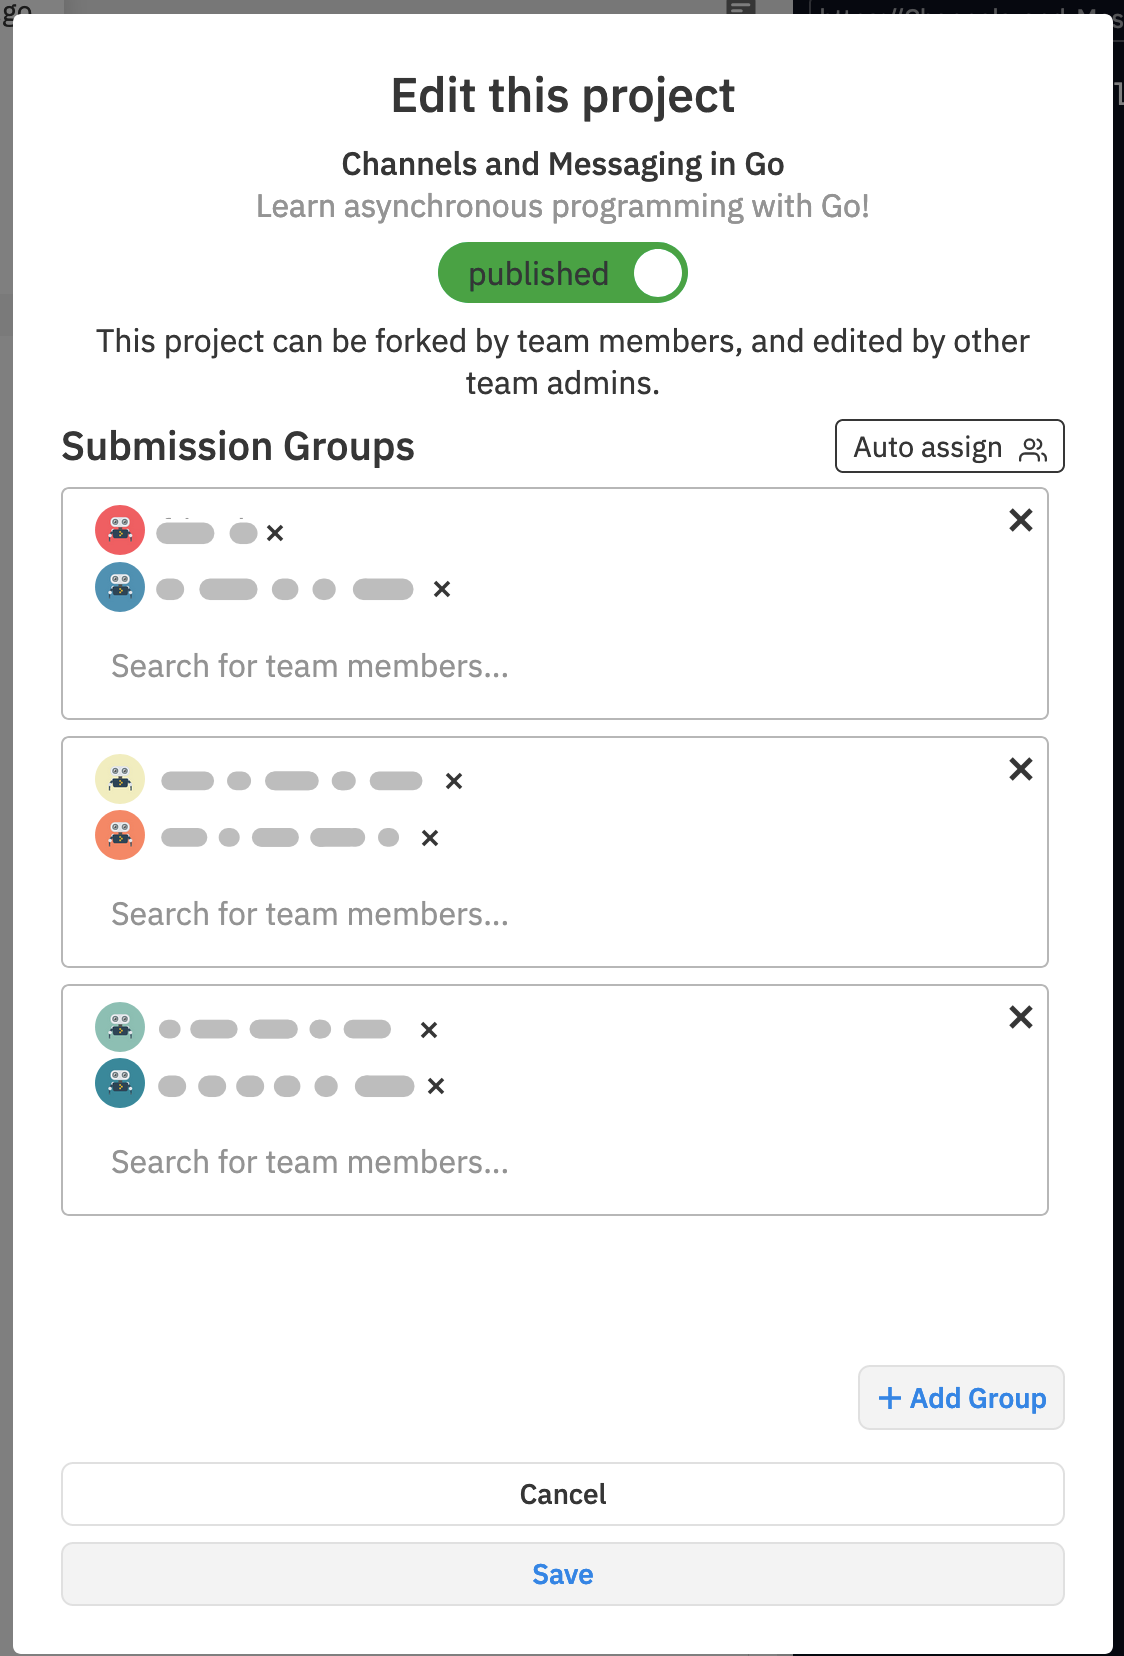
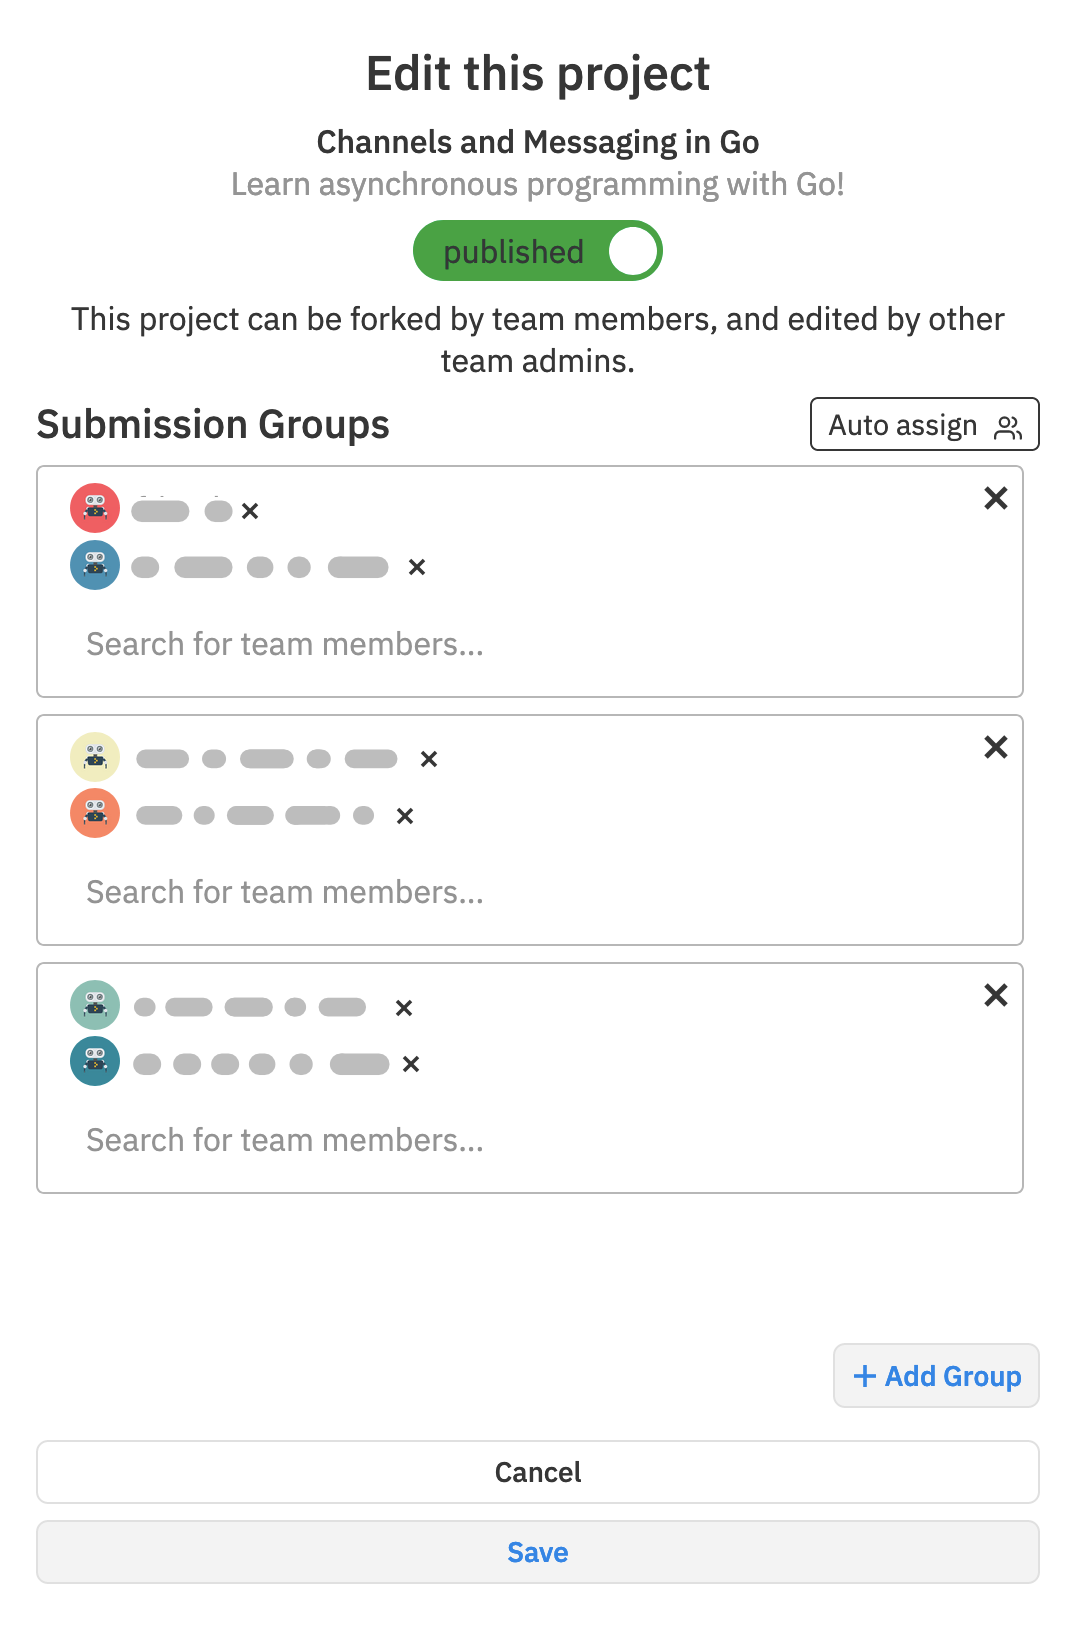
group projects image size

diff --git a/posts/group-projects-teams-education.md b/posts/group-projects-teams-education.md
@@ -11,7 +11,7 @@ Today we are excited to introduce **Group Projects on *Teams for Education***.  
 
 When creating a project from the Team Dashboard, teachers may toggle-on "Group Project".  This allows teachers to publish the project with automatically assigned or hand-selected student groups for collaboration.
 
-<img src="https://blog.repl.it/images/group-projects-teams-education/project-publish.png" alt="Group assignment interface" style="max-width: 300px" />
+<img src="https://blog.repl.it/images/group-projects-teams-education/project-publish.png" alt="Group assignment interface" style="max-width: 450px" />
 
 Group Projects integrates with our Teams Dashboard for viewing student submissions and providing feedback via *[Code Annotations](https://blog.repl.it/annotations-for-education)*.
 
